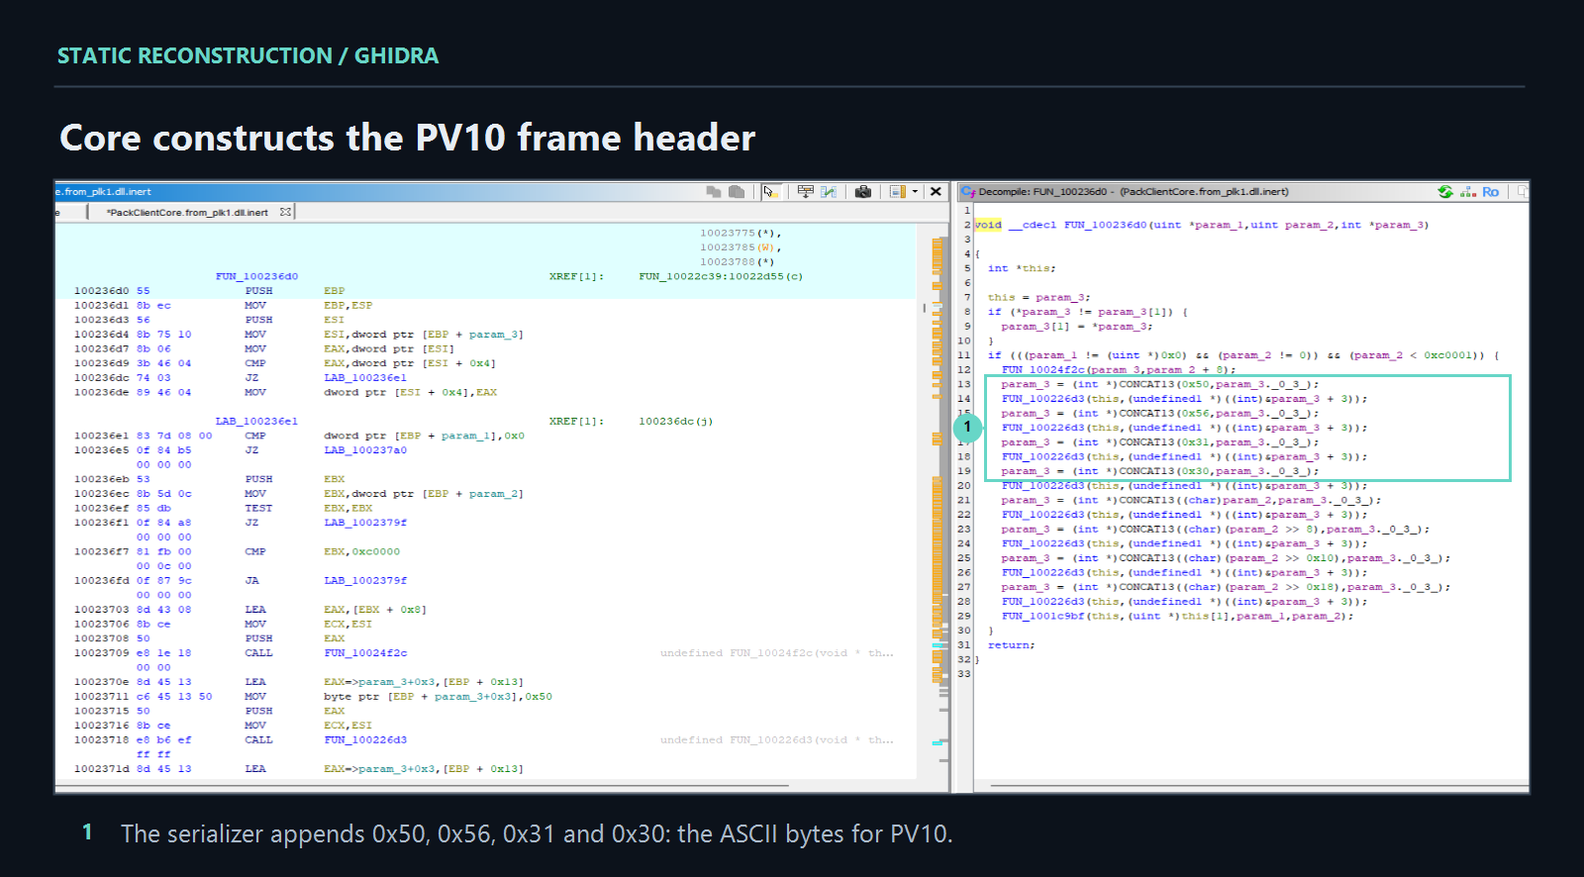
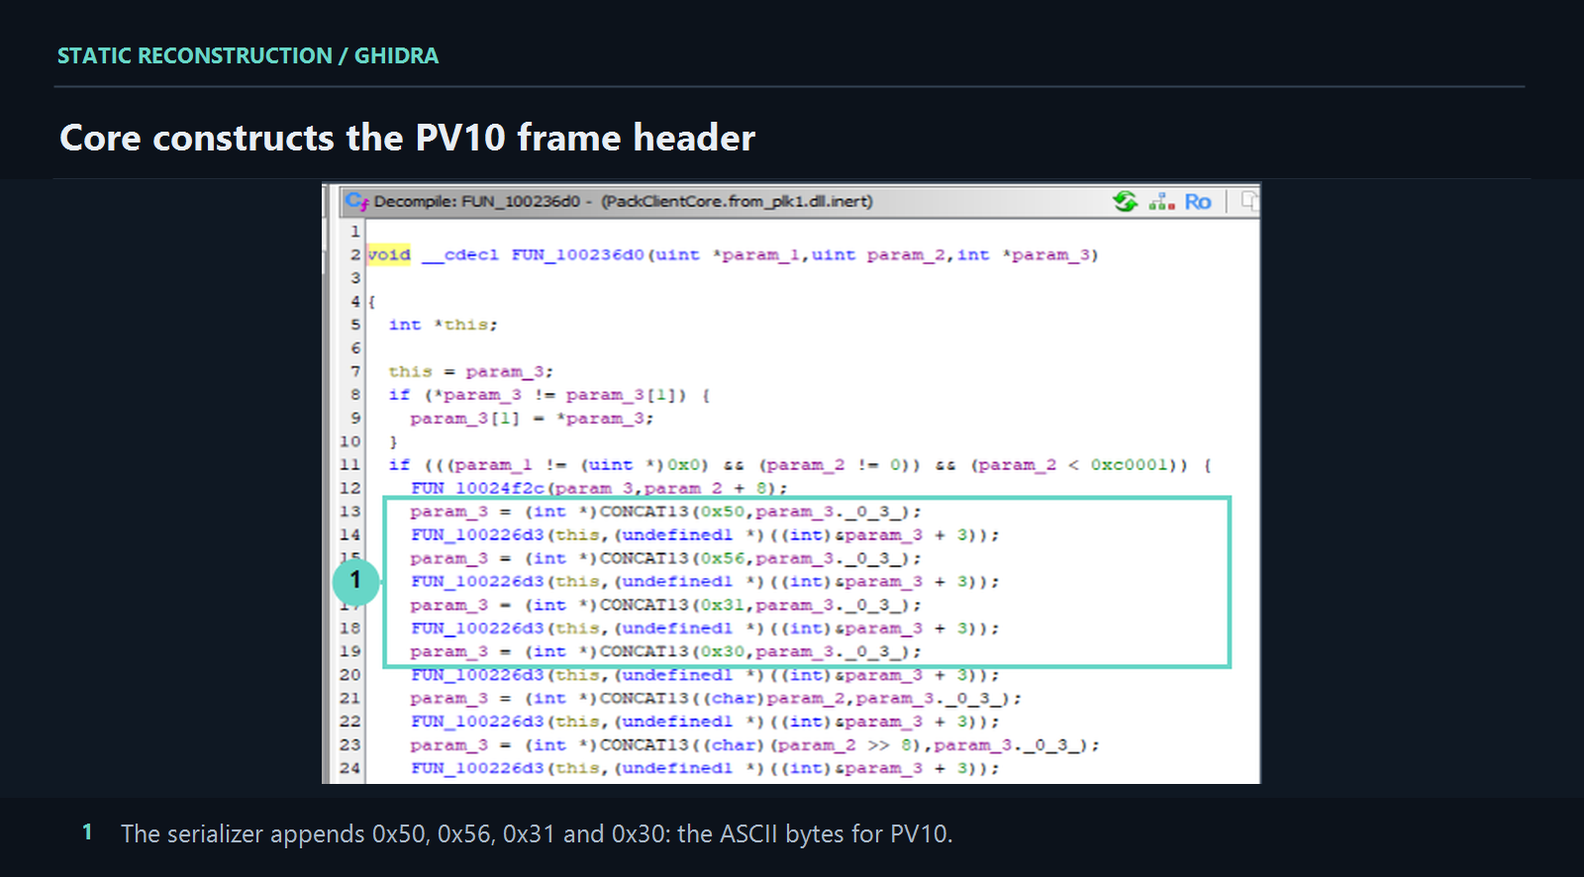
Polish publication article and evidence figures

diff --git a/publication/build.py b/publication/build.py
@@ -63,23 +63,31 @@ def shell(title, body, prefix='', kind='article', description=SUBTITLE, page='in
 <html lang="en"><head><meta charset="utf-8"><meta name="viewport" content="width=device-width,initial-scale=1"><meta name="description" content="{esc(description)}"><meta name="author" content="{esc(AUTHOR)}"><meta name="theme-color" content="#10161e"><meta name="color-scheme" content="dark"><title>{esc(title)} · {esc(AUTHOR)}</title><link rel="canonical" href="{esc(canonical)}">
 {sharing}
 <link rel="stylesheet" href="{prefix}{STYLE_FILE}"><link rel="icon" href="{prefix}assets/favicon.svg" type="image/svg+xml"></head>
-<body class="{kind}"><a class="skip" href="#main">Skip to content</a><header class="site-header"><div class="nav-shell"><a class="wordmark" href="{prefix}index.html">PackClient<span> / Research</span></a><nav aria-label="Main navigation">{nav} <a class="nav-pdf" href="{prefix}{PDF_FILE}">PDF <span aria-hidden="true">↗</span></a></nav></div></header>{body}
+<body class="{kind}"><a class="skip" href="#main">Skip to content</a><header class="site-header"><div class="nav-shell"><a class="wordmark" href="{prefix}index.html">PackClient</a><nav aria-label="Main navigation">{nav} <a class="nav-pdf" href="{prefix}{PDF_FILE}">PDF <span aria-hidden="true">↗</span></a></nav></div></header>{body}
 <footer class="site-footer"><div><strong>{esc(AUTHOR)}</strong> <p>PackClient research · {published_date()}</p> <p><a href="{prefix}references.html#citation">Citation · Version {esc(VERSION)}</a></p></div><nav aria-label="Publication resources"><a href="{prefix}references/tooling.html">Tools</a> <a href="{prefix}references/prior-work.html">Prior work</a> <a href="{REPO}">GitHub <span aria-hidden="true">↗</span></a></nav><a href="{prefix}{PDF_FILE}">Download the technical report <span aria-hidden="true">↗</span></a></footer>
-<dialog id="figure-dialog" aria-labelledby="dialog-title"><div class="dialog-top"><h2 id="dialog-title">Evidence figure</h2><div class="dialog-actions"><button id="figure-scale" type="button" aria-pressed="false">Native size</button><button class="close-dialog" type="button" aria-label="Close enlarged figure">Close ×</button></div></div><div class="dialog-scroll"><img id="dialog-image" alt="Enlarged evidence figure"></div><p id="dialog-caption"></p><a id="dialog-original" href="#" target="_blank" rel="noopener">Open figure at full resolution ↗</a></dialog><script src="{prefix}{SCRIPT_FILE}" defer></script></body></html>'''
+<dialog id="figure-dialog" aria-labelledby="dialog-title"><div class="dialog-top"><h2 id="dialog-title">Figure</h2><div class="dialog-actions"><button id="figure-scale" type="button" aria-pressed="false">Native size</button><button class="close-dialog" type="button" aria-label="Close enlarged figure">Close ×</button></div></div><div class="dialog-scroll"><img id="dialog-image" alt="Enlarged figure"></div><p id="dialog-caption"></p><a id="dialog-original" href="#" target="_blank" rel="noopener">Open figure at full resolution ↗</a></dialog><script src="{prefix}{SCRIPT_FILE}" defer></script></body></html>'''
 
 
 def figure(fid):
     f=FM[fid]; n=NUMBERS[fid]
     grade=grade_label(f['grade'])
-    return f'''<figure class="evidence-figure" id="fig-{fid}"><div class="figure-top"><span class="eyebrow">Figure {n:02d} / {esc(grade)}</span> <a class="zoom-figure" href="{f['asset_url']}" data-title="{esc(f['title'])}" data-caption="{esc(f['caption'])}" aria-label="Enlarge figure {n}: {esc(f['title'])}">Enlarge ↗</a></div><a class="zoom-figure figure-image" href="{f['asset_url']}" data-title="{esc(f['title'])}" data-caption="{esc(f['caption'])}" aria-label="Enlarge figure {n}: {esc(f['title'])}"><img loading="lazy" decoding="async" width="{f['width']}" height="{f['height']}" src="{f['asset_url']}" alt="{esc(f['title'])}"></a><figcaption><strong>{esc(f['title'])}</strong> {esc(f['caption'])} <span class="figure-refs"><a href="evidence.html#{fid}">Evidence source and analysis ↗</a></span></figcaption></figure>'''
+    return f'''<figure class="evidence-figure" id="fig-{fid}"><div class="figure-top"><span class="eyebrow">Figure {n:02d} / {esc(grade)}</span> <a class="zoom-figure" href="{f['asset_url']}" data-title="{esc(f['title'])}" data-caption="{esc(f['caption'])}" aria-label="Enlarge figure {n}: {esc(f['title'])}">Enlarge ↗</a></div><a class="zoom-figure figure-image" href="{f['asset_url']}" data-title="{esc(f['title'])}" data-caption="{esc(f['caption'])}" aria-label="Enlarge figure {n}: {esc(f['title'])}"><img loading="lazy" decoding="async" width="{f['width']}" height="{f['height']}" src="{f['asset_url']}" alt="{esc(f['title'])}"></a><figcaption><strong>{esc(f['title'])}</strong> {esc(f['caption'])} <span class="figure-refs"><a href="evidence.html#{fid}">Source and context ↗</a></span></figcaption></figure>'''
 
 
 def diagram(fid):
     title,fn=DIAGRAMS[fid]; d=fn(); n=NUMBERS[fid]
-    caption='Reconstructed from recorded native process events; process lifetimes distinguish reused PIDs.' if fid=='process-tree' else 'Technical reconstruction of recovered code. This is not a captured exchange.'
+    captions = {
+        'architecture': 'Reconstructed from the signed host, carrier, embedded package, Launcher, and historical PLK1 traffic.',
+        'worker-state': 'Reconstructed from the screenshot worker’s capture loop and command dispatch.',
+        'worker-layout': 'Reconstructed from the worker’s five-DWORD request and response structures.',
+        'envelope': 'Reconstructed from the Launcher’s authenticated receive path.',
+        'cache': 'Reconstructed from the Launcher’s PLK1 verification and cache-control flow.',
+        'process-tree': 'Built from recorded process-creation events; process lifetimes separate reused PIDs.',
+    }
+    caption = captions[fid]
     asset=f'assets/diagrams/{fid}.svg'
     asset += '?v=' + hashlib.sha256((DIST / asset).read_bytes()).hexdigest()[:12]
-    return f'''<figure class="diagram-figure" id="fig-{fid}"><div class="figure-top"><span class="eyebrow">Figure {n:02d} / technical reconstruction</span> <a class="zoom-figure" href="{asset}" data-title="{esc(title)}" data-caption="{esc(caption)}" aria-label="Enlarge figure {n}: {esc(title)}">Enlarge ↗</a></div><a class="zoom-figure figure-image" href="{asset}" data-title="{esc(title)}" data-caption="{esc(caption)}" aria-label="Enlarge figure {n}: {esc(title)}"><img loading="lazy" width="{d.width}" height="{d.height}" src="{asset}" alt="{esc(title)}"></a><figcaption><strong>{esc(title)}</strong> {caption}</figcaption></figure>'''
+    return f'''<figure class="diagram-figure" id="fig-{fid}"><div class="figure-top"><span class="eyebrow">Figure {n:02d} / reconstructed flow</span> <a class="zoom-figure" href="{asset}" data-title="{esc(title)}" data-caption="{esc(caption)}" aria-label="Enlarge figure {n}: {esc(title)}">Enlarge ↗</a></div><a class="zoom-figure figure-image" href="{asset}" data-title="{esc(title)}" data-caption="{esc(caption)}" aria-label="Enlarge figure {n}: {esc(title)}"><img loading="lazy" width="{d.width}" height="{d.height}" src="{asset}" alt="{esc(title)}"></a><figcaption><strong>{esc(title)}</strong> {caption}</figcaption></figure>'''
 
 
 def build_article():
@@ -102,14 +110,14 @@ def build_article():
     findings = ''.join(f'<li>{item}</li>' for item in key_findings)
     opening=f'''<header class="report-head" id="report"><p class="eyebrow">Malware analysis / reverse engineering</p><h1>{esc(TITLE)}</h1><p class="report-subtitle">{esc(SUBTITLE)}</p><p class="report-author">{esc(AUTHOR)}</p><dl class="report-meta"><div><dt>Published</dt> <dd><time datetime="{esc(DATA['date'])}">{published_date()}</time></dd></div> <div><dt>Research cutoff</dt> <dd>{esc(cutoff)} (UTC)</dd></div> <div class="research-status"><dt>Analysis scope</dt> <dd>{esc(status)}</dd></div></dl><div class="abstract"><h2>Abstract</h2>{md(abstract)}</div><div class="key-findings"><h2>Key findings</h2><ul>{findings}</ul></div></header>'''
     navigation=f'<ol>{toc}</ol>'
-    body=f'''<main id="main" tabindex="-1"><details class="mobile-toc"><summary>In this report</summary><nav aria-label="Mobile report contents">{navigation}</nav></details><div class="reading-layout"><aside class="contents"><a class="contents-title" href="#report">In this report</a><nav aria-label="Report contents">{navigation}</nav><div class="contents-extra"><a href="evidence.html#identities">Artifact identities</a><a href="references.html">Technical references</a><a href="{PDF_FILE}">Download PDF ↗</a></div></aside><article class="prose">{opening}{''.join(chapters)}<section class="report-resources" aria-labelledby="resources-heading"><h2 id="resources-heading">Technical references and evidence</h2><p><a href="references.html">Field-level references</a> contain the complete contracts, runtime correspondence and tooling documentation. The <a href="evidence.html">evidence index</a> records the source tools and identity anchors for the selected figures.</p></section></article></div></main>'''
+    body=f'''<main id="main" tabindex="-1"><details class="mobile-toc"><summary>In this report</summary><nav aria-label="Mobile report contents">{navigation}</nav></details><div class="reading-layout"><aside class="contents"><a class="contents-title" href="#report">In this report</a><nav aria-label="Report contents">{navigation}</nav><div class="contents-extra"><a href="evidence.html#identities">Sample hashes</a><a href="references.html">Technical notes</a><a href="{PDF_FILE}">Download PDF ↗</a></div></aside><article class="prose">{opening}{''.join(chapters)}<section class="report-resources" aria-labelledby="resources-heading"><h2 id="resources-heading">Continue reading</h2><p>Browse the <a href="references.html">technical notes</a> for the complete protocol, runtime, and tooling write-ups, or open <a href="evidence.html">samples and source figures</a> for hashes and figure provenance.</p></section></article></div></main>'''
     (DIST/'index.html').write_text(shell(REPORT_TITLE,body,description=abstract), encoding='utf-8')
 
 
 GROUPS=[
-('Recovered interfaces','The execution chain, protocol contracts and component boundaries behind the article.', [('launcher-architecture','Launcher architecture and lineage'),('core-analysis','PackClient Core'),('screenshot-ipc','Screenshot IPC and framebuffer'),('launcher-protocol','Transport, authentication and PLK1'),('active-session-handoff','Active-session handoff')]),
-('Runtime and evidence','What the local and public runtime evidence establishes, with limits attached to each conclusion.', [('runtime-analysis','Runtime analysis'),('evidence','Evidence and artifact identities'),('limitations','Scope and limitations'),('prior-work','Prior work and contributions')]),
-('Tools and reproducibility','Passive tools, optional local IPC tests and detection candidates with explicit validation limits.', [('tooling','Supported passive tools and quickstart'),('screenshot-ipc-validation','Synthetic screenshot IPC validation'),('detection-guide','Detection guide')])]
+('Launcher and Core','Component reconstruction, protocol behavior, screenshot paths, and session handoff.', [('launcher-architecture','Launcher architecture'),('core-analysis','PackClient Core'),('screenshot-ipc','Screenshot worker'),('launcher-protocol','Launcher protocol'),('active-session-handoff','Active-session handoff')]),
+('Runtime and provenance','Process, memory, persistence, sample identity, limitations, and prior reporting.', [('runtime-analysis','Runtime analysis'),('evidence','Samples and provenance'),('limitations','Scope and limitations'),('prior-work','Prior work and contributions')]),
+('Tools and detections','Offline decoders, screenshot test harnesses, Wireshark support, and detection guidance.', [('tooling','Analysis tools'),('screenshot-ipc-validation','Screenshot worker test harness'),('detection-guide','Detection guide')])]
 
 
 def build_references():
@@ -129,15 +137,15 @@ def build_references():
             if parts.fragment: new+='#'+parts.fragment
             return f'{attr}="{esc(new)}"'
         content=re.sub(r'(href|src)="([^"]+)"',rewrite,content)
-        body=f'<main id="main" class="source-page" tabindex="-1"><div class="source-bar"><a href="../references.html">← Technical references</a><a href="{REPO}/blob/main/docs/{p.name}">View Markdown ↗</a></div><article class="prose source-prose">{content}</article></main>'
+        body=f'<main id="main" class="source-page" tabindex="-1"><div class="source-bar"><a href="../references.html">← Technical notes</a><a href="{REPO}/blob/main/docs/{p.name}">View source on GitHub ↗</a></div><article class="prose source-prose">{content}</article></main>'
         (out/(p.stem+'.html')).write_text(shell(title,body,'../',kind='references',description=f'{title}. {SUBTITLE}.',page=f'references/{p.stem}.html'), encoding='utf-8')
     groups=[]
     for title,desc,items in GROUPS:
         links=''.join(f'<li><a href="references/{slug}.html"><span>{esc(label)}</span> <span>↗</span></a></li>' for slug,label in items)
         groups.append(f'<section class="resource-group"><div><h2>{title}</h2><p>{desc}</p></div><ul>{links}</ul></section>')
     citation=f'<section class="resource-group" id="citation"><div><h2>Citation</h2><p>Version {esc(VERSION)} · {published_date()}</p></div><div><p>{esc(AUTHOR)}. ({DATA["date"][:4]}). <cite>{esc(REPORT_TITLE)}</cite> (Version {esc(VERSION)}). <a href="{SITE}/">{SITE}/</a></p><p><a href="CITATION.cff" download>Download CITATION.cff</a></p></div></section>'
-    body=f'<main id="main" tabindex="-1"><div class="page-hero"><p class="eyebrow">Field-level detail</p><h1>Technical references</h1><p>Recovered contracts, runtime correspondence and supported inspection tools.</p></div><div class="companion-body">{"".join(groups)}{citation}</div></main>'
-    (DIST/'references.html').write_text(shell('Technical references',body,kind='references',description='PackClient technical references: recovered interfaces, runtime evidence, tools, detections and report citation.',page='references.html'), encoding='utf-8')
+    body=f'<main id="main" tabindex="-1"><div class="page-hero"><p class="eyebrow">Supporting research</p><h1>Technical notes</h1><p>Detailed write-ups for the Launcher, Core, network protocol, runtime behavior, and detection tooling.</p></div><div class="companion-body">{"".join(groups)}{citation}</div></main>'
+    (DIST/'references.html').write_text(shell('Technical notes',body,kind='references',description='Detailed PackClient notes covering the Launcher, recovered Core, runtime behavior, protocol, tools, and detections.',page='references.html'), encoding='utf-8')
 
 
 def build_evidence():
@@ -146,18 +154,20 @@ def build_evidence():
     for fid,n in NUMBERS.items():
         if fid not in FM: continue
         f=FM[fid]
-        entries.append(f'''<section class="ledger-entry" id="{fid}"><a class="ledger-thumb zoom-figure" href="{f['asset_url']}" data-title="{esc(f['title'])}" data-caption="{esc(f['caption'])}" aria-label="Enlarge figure {n}: {esc(f['title'])}"><img loading="lazy" decoding="async" width="{f['width']}" height="{f['height']}" src="{f['asset_url']}" alt="{esc(f['title'])}"></a><div><p class="eyebrow">Figure {n:02d} / {esc(grade_label(f['grade']))}</p> <h3>{esc(f['title'])}</h3> <p>{esc(f['caption'])}</p><p><strong>Source:</strong> {esc(f['source'])}</p><p><a href="{f['reference']}">Technical analysis ↗</a> · <a href="index.html#fig-{fid}">Read in the report ↗</a></p></div></section>''')
-    body=f'''<main id="main" tabindex="-1"><div class="page-hero"><p class="eyebrow">Evidence and analysis</p><h1>Evidence index</h1><p>Selected screenshots, their source tools and the findings they support.</p></div><div class="evidence-body"><section class="prose" id="identities"><h2>Identity anchors</h2><p>Recorded hashes identify the studied malware and runtime dumps. Those artifacts are not redistributed.</p><div class="table-scroll" role="region" aria-label="Artifact hashes" tabindex="0"><table class="identity-table"><thead><tr><th>Artifact</th><th>SHA-256</th></tr></thead><tbody>{rows}</tbody></table></div><p><a href="references/evidence.html">Evidence basis and limits</a></p></section><section class="prose" id="figures"><h2>Selected figures</h2><p>Cropped source screenshots use editorial callouts to identify the relevant regions. Captions identify the observation; the linked technical references explain its interpretation. Diagrams are labelled as reconstructions.</p></section>{''.join(entries)}</div></main>'''
-    (DIST/'evidence.html').write_text(shell('Evidence and analysis',body,kind='evidence',description='Sample identities, source screenshots and the observations they support in the PackClient research.',page='evidence.html'), encoding='utf-8')
+        entries.append(f'''<section class="ledger-entry" id="{fid}"><a class="ledger-thumb zoom-figure" href="{f['asset_url']}" data-title="{esc(f['title'])}" data-caption="{esc(f['caption'])}" aria-label="Enlarge figure {n}: {esc(f['title'])}"><img loading="lazy" decoding="async" width="{f['width']}" height="{f['height']}" src="{f['asset_url']}" alt="{esc(f['title'])}"></a><div><p class="eyebrow">Figure {n:02d} / {esc(grade_label(f['grade']))}</p> <h3>{esc(f['title'])}</h3> <p>{esc(f['caption'])}</p><p><strong>Source:</strong> {esc(f['source'])}</p><p><a href="{f['reference']}">Technical note ↗</a> · <a href="index.html#fig-{fid}">View in article ↗</a></p></div></section>''')
+    body=f'''<main id="main" tabindex="-1"><div class="page-hero"><p class="eyebrow">Malware identities / source figures</p><h1>Samples and source figures</h1><p>Hashes for the analyzed files, followed by the screenshots used throughout the article.</p></div><div class="evidence-body"><section class="prose" id="identities"><h2>Sample hashes</h2><div class="table-scroll" role="region" aria-label="Sample and object hashes" tabindex="0"><table class="identity-table"><thead><tr><th>Sample or object</th><th>SHA-256</th></tr></thead><tbody>{rows}</tbody></table></div><p><a href="references/evidence.html">Full provenance and methods</a></p></section><section class="prose" id="figures"><h2>Source figures</h2></section>{''.join(entries)}</div></main>'''
+    (DIST/'evidence.html').write_text(shell('Samples and source figures',body,kind='evidence',description='Hashes and source figures for the analyzed PackClient samples, memory objects, and network captures.',page='evidence.html'), encoding='utf-8')
 
 
 def build():
     # Removed documents and assets must not survive in generated output.
     if DIST.exists(): shutil.rmtree(DIST)
     DIST.mkdir()
-    # Use the final evidence figures directly.
-    (DIST/'assets').mkdir(exist_ok=True)
-    shutil.copytree(ROOT/'assets/figures', DIST/'assets/figures', dirs_exist_ok=True)
+    # Ship only figures selected by the publication, not retired evidence drafts.
+    figures_dir = DIST / 'assets' / 'figures'
+    figures_dir.mkdir(parents=True, exist_ok=True)
+    for figure in FIGURES:
+        shutil.copy2(ROOT / figure['asset'], figures_dir / Path(figure['asset']).name)
     shutil.copy2(ROOT/SOCIAL_IMAGE, DIST/SOCIAL_IMAGE)
     shutil.copy2(ROOT/'CITATION.cff', DIST/'CITATION.cff')
     (DIST/'assets/favicon.svg').write_text('<svg xmlns="http://www.w3.org/2000/svg" viewBox="0 0 64 64"><rect width="64" height="64" fill="#10161e"/><path d="M20 18h17a10 10 0 0 1 0 20H26v12h-6zm6 6v8h10a4 4 0 0 0 0-8z" fill="#6bd0c5"/></svg>', encoding='utf-8')

diff --git a/publication/pdf.py b/publication/pdf.py
@@ -359,9 +359,7 @@ def evidence_flows(fid):
     number = NUMBERS[fid]
     if fid == 'runtime-process-chain':
         return process_chain_flows(figure, number)
-    # The tall worker-failure plate continues between its evidence panels.
-    breaks = {'worker-failure': (0, 700 / 1812, 1)}
-    stops = breaks.get(fid, (0, 1))
+    stops = (0, 1)
     flows = []
     for part, (start, end) in enumerate(zip(stops, stops[1:])):
         suffix = ' / CONTINUED' if part else ''
@@ -569,7 +567,7 @@ def make_pdf():
         Paragraph('<b>Analysis scope</b> — ' + esc(DATA.get('status', 'PackClientLauncher code and runtime evidence')), S['small']),
         NextPageTemplate('Body'), PageBreak(),
         Paragraph('CONTENTS', S['kicker']), Paragraph('The research', S['h1']),
-        Paragraph('PackClientLauncher: reconstructed interfaces, runtime evidence and the limits of the recovered build.', S['deck']),
+        Paragraph('The signed-host chain, Launcher, delivered Core, persistence, historical traffic, and defensive tooling.', S['deck']),
     ]
     toc = TableOfContents()
     toc.levelStyles = [S['toc']]
@@ -577,7 +575,7 @@ def make_pdf():
     story.append(toc)
     story += [Spacer(1,20), Rule(), Spacer(1,8),
         Paragraph(f'<link href="{SITE}">Online article and full-resolution figures</link> · '
-            f'<link href="{SITE}/references.html">Technical references and tooling</link>', S['source']),
+            f'<link href="{SITE}/references.html">Technical notes and tooling</link>', S['source']),
         PageBreak()]
     for index, section in enumerate(SECTIONS, 1):
         if index > 1:
@@ -602,11 +600,6 @@ def make_pdf():
             Paragraph(esc(name) + ' <font name="Sans" color="#596873">/ ' + esc(size) + '</font>', S['figtitle']),
             Paragraph(chunks, S['hash']), Spacer(1,10), Rule(), Spacer(1,8),
         ]))
-    story += [Paragraph('Source access', S['h2']), Paragraph(
-        'Raw malware, virtual-machine disks, dumps and captures are not redistributed. '
-        'The technical references preserve artifact identities and the limits of the available evidence. '
-        'The repository contains the research, selected figures, inspection tools and the optional synthetic IPC kit with its tests.', S['body'])]
-
     story += [PageBreak()]
     story += heading('Figure index', 'appendix-figures', 'Appendix B  Figure index', 'APPENDIX B')
     rows = [['Figure', 'Material', 'Title']]
@@ -619,7 +612,7 @@ def make_pdf():
 
     story += [PageBreak()]
     story += heading('References', 'appendix-references', 'Appendix C  References', 'APPENDIX C')
-    story.append(Paragraph('Numbered references correspond to the citations in the article. Technical references provide the focused supporting analysis; external sources establish prior work and API contracts.', S['deck']))
+    story.append(Paragraph('References are listed in the order they first appear. External sources cover prior reporting, upstream code, and API behavior.', S['deck']))
     for url, (number, title) in REFERENCES.items():
         story.append(KeepTogether([
             Paragraph(f'<b>[{number}]</b> <link href="{esc(url)}">{esc(title)}</link>', S['reference']),

diff --git a/publication/model.py b/publication/model.py
@@ -15,7 +15,7 @@ SOCIAL_ALT = f'{TITLE}. {SUBTITLE}. {AUTHOR}.'
 
 
 def grade_label(grade):
-    return {'static': 'static reconstruction', 'runtime': 'runtime observation', 'unresolved': 'observation · causality unresolved'}.get(grade, grade)
+    return {'static': 'static reconstruction', 'runtime': 'runtime observation', 'verification': 'recovery verification', 'unresolved': 'unresolved observation'}.get(grade, grade)
 
 
 SECTIONS = DATA['sections']

diff --git a/docs/limitations.md b/docs/limitations.md
@@ -10,7 +10,7 @@ This report covers one PackClient Launcher build and the Core DLL recovered dire
 
 - **Plugins and Core updates:** The Core implements modern and legacy plugin loading, staged delivery, protected storage, activation, and update handling. No delivered plugin binary, paired plugin cache, activated plugin mapping, or completed Core-update transaction was recovered.
 
-- **Screenshot paths:** The Launcher's `1RCP` message format and framebuffer layout were recovered, but no complete exchange with the real worker was captured. The external peer, endpoint creator, downstream framebuffer consumer, and any bridge between Launcher `1RCP` and Core `PV10` remain unknown. The observed bitmap-deletion order alone does not prove a causal use-after-free.
+- **Screenshot paths:** The Launcher's `1RCP` message format and framebuffer layout were recovered, but no complete exchange with the real worker was captured. The external peer, endpoint creator, downstream framebuffer consumer, and any bridge between Launcher `1RCP` and Core `PV10` remain unknown. The observed bitmap-deletion order alone does not establish a use-after-free.
 
 - **Active-session handoff:** Token selection, process creation, argument handling, and session-drift behavior were recovered from the Launcher. No successful replacement into another interactive session was observed.
 

diff --git a/README.md b/README.md
@@ -92,7 +92,7 @@ The repository includes experimental Sigma and Suricata detections, plus separat
 
 ## Scope and Limitations
 
-The available evidence does not identify the external `1RCP` peer, contain a delivered plugin binary, prove a bridge between `1RCP` and Core `PV10`, recover the server implementation, establish a complete real `1RCP` exchange, or prove the causal diagnosis of the worker failure.
+The available evidence does not identify the external `1RCP` peer, contain a delivered plugin binary, prove a bridge between `1RCP` and Core `PV10`, recover the server implementation, establish a complete real `1RCP` exchange, or establish why the real worker attempt failed.
 
 Additional limitations are documented in [Limitations](docs/limitations.md).
 
